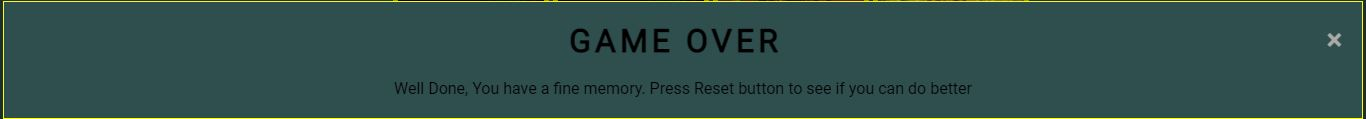
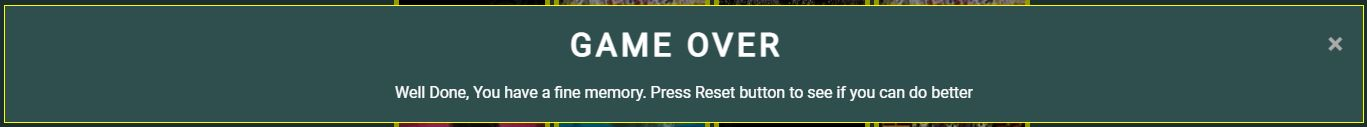
fix text color to white for modal

Changed region(s): [[0.0, 0.0, 1.0, 1.0], [0.2767, 0.6807, 0.7379, 0.8067], [0.3997, 0.2269, 0.5842, 0.4538]]

diff --git a/assets/css/style.css b/assets/css/style.css
@@ -7,6 +7,7 @@
     padding: 0;
     margin: 0;
     box-sizing: border-box;
+    color: white;
     }
 
 
@@ -147,6 +148,14 @@ try 360 deg*/
   
   .close:hover,
   .close:focus {
+    color: black;
+    text-decoration: none;
+    cursor: pointer;
+  }
+
+
+  .endClose:hover,
+  .endClose:focus {
     color: black;
     text-decoration: none;
     cursor: pointer;

diff --git a/README.md b/README.md
@@ -20,6 +20,7 @@ Album covers memory game is a fun and simple memory card flipping game.  The obj
 - __Memory Game__
 
   - In this section there are 12 divs.  Each div has 2 images to represent a card.  There are an image of a music note at the front of the card and at the back of the card there is an image of the album cover.  I have used data- value to link the pairs of cards.
+  - The player selects a card, then tries to select the matching pair.  If the user is corret the cards will stay faced up.  If they don't match, the cards will flip cack over.  
   - The player selects a card, then tries to select the matching pair.  If the user is corret the cards will stay faced up.  If they don't match, the cards will flip cack over.
 
 ![Memory Game Cards down](https://github.com/colmhaugh/Album-Covers-Memory-Game/blob/main/assets/images/MemoryGameCards.JPG)
@@ -29,9 +30,9 @@ Album covers memory game is a fun and simple memory card flipping game.  The obj
 
   - When the game is over, the End Game Modal appears with a message for the player.  The player can get 3 different messages depending on how many guesses they have used.
 
-  ![End Modal1](https://github.com/colmhaugh/Album-Covers-Memory-Game/blob/main/assets/images/EndGameModal2.JPG)
+  ![End Modal1](https://github.com/colmhaugh/Album-Covers-Memory-Game/blob/main/assets/images/EndGameModal1.JPG)
    ![End Modal1](https://github.com/colmhaugh/Album-Covers-Memory-Game/blob/main/assets/images/EndGameModal2.JPG)
-    ![End Modal1](https://github.com/colmhaugh/Album-Covers-Memory-Game/blob/main/assets/images/EndGameModal2.JPG)
+    ![End Modal1](https://github.com/colmhaugh/Album-Covers-Memory-Game/blob/main/assets/images/EndGameModal3.JPG)
 
 ### Features Left to Implement
 
@@ -48,7 +49,6 @@ Album covers memory game is a fun and simple memory card flipping game.  The obj
 
 ### Libraries & Programs Used
 
-  - Font Awesome was used on all pages throughout the website to add icons for aesthetic and UX purposes.
   - Git was used for version control by utilizing the Gitpod terminal to commit to Git and Push to GitHub.
   - GitHub is used to store the projects code after being pushed from Git.
 
@@ -56,18 +56,17 @@ Album covers memory game is a fun and simple memory card flipping game.  The obj
 ## Testing 
 
 I uesed the devices in devtools to check how it would look on samller devices after every push as part of my regression testing.
-I published early so I could test on mobile phone every eveining after a push.
 I tested my mobile device, Samsung 20 ultra and on iPad.
 Most of the early testing was done using Google Developent tools.
-Issues were fixed as they appeared.
+Issues were fixed as they appeared and i put detailed commit comments when they were fixed.
 
 # Issues fixed
 
-- I had in issue where the images for the hotels in the food and drink page.  The image was showing up while I was testing but not when I was testing on the live site.  I used google develpoer tools to inspect and discovered that i had added an extra dot so it was looking for the image in the wrong location.  It was img src="../assets/images/  and once i changed it to img src="./assets/images/ it worked.
-- While testing on smaller devices, the ""Welcome to Spanish Point" overlay text didnt look good on smaller devices.  I made the hero-text display to none so it wouldnt appear on phones.  
-- I also made the hero-text higher on tablets so it would look better.
-- There was not enough room on small devices for the 3 hotels to appear in a row so i put them in a column.
-- Some images were loading slowly so i lowered the quality of the image.
+- I fixed most issues as I found them.  I used the commit comment to note when the issues were fixed.
+- I got error 404 message when I tried to deploy the page.  I had to add a favicon and relevant text to the head for this to work.
+- Image for Guns N Roses card were not displaying when deployed.  I removed the / from the begining of the source and it worked.
+- Cards were flickering so I removed onhoover.
+- Changed the Alert for the isntructions and Game over to a Modal for a better user experience.
 - Copied the text to word doc and preformed a spell check to catch any errors.
 
 # Further testing
@@ -113,19 +112,21 @@ To be added!
   - Press Enter. Your local clone will be created.
 
 ## Credits 
- 
-- Game is based on [FreeCodeCame] (https://www.freecodecamp.org/news/vanilla-javascript-tutorial-build-a-memory-game-in-30-minutes-e542c4447eae/)
+
 - Advice and guidance from my mentor Precious Ijege.
 - Great leadership and guidance from Kasia Bogucka.
-- Great links and advice from colleagues in my course.
+- Great links and advice from colleagues in my course. 
+- Game is based on [FreeCodeCame] (https://www.freecodecamp.org/news/vanilla-javascript-tutorial-build-a-memory-game-in-30-minutes-e542c4447eae/)
+- Additional flexbox information from [css-tricks] (https://www.css-tricks.com)
 - Refresh html and css from Code Institute lessons and from [w3school] (https://www.w3schools.com/)
-- MEmory game based on  [css-tricks] (https://www.css-tricks.com)
 - Modal from [w3school] (https://www.w3schools.com/)
-- Text for end game modal from [w3school] (https://www.w3schools.com/)
+- Different valuse for the text for end game modal from [w3school] (https://www.w3schools.com/)
+- Converted note image to favicon using [favicon] (https://favicon.io/favicon-converter/)
+
 
 ### Content 
 
-- Photos for album were from their Wiki page.
+- Modal text for insturcions and end game were created by Colm Haugh.
 
 
 ### Media
